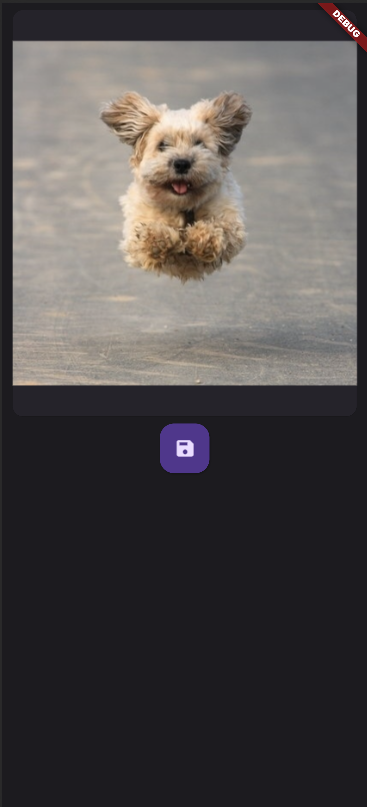
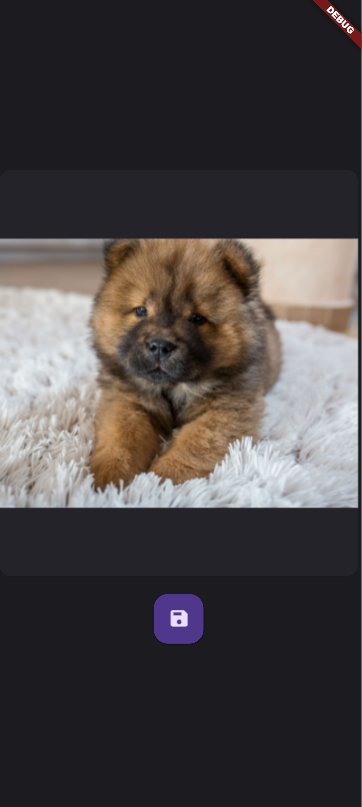
fix: image alignment

diff --git a/lib/homepage.dart b/lib/homepage.dart
@@ -1,15 +1,14 @@
-//homepage.dart
+import 'package:flutter/material.dart';
+import 'package:flutter_bloc/flutter_bloc.dart';
+import 'package:hive/hive.dart';
 import 'package:bloc_asngment/blocs/app_blocs.dart';
 import 'package:bloc_asngment/blocs/app_events.dart';
 import 'package:bloc_asngment/blocs/app_states.dart';
 import 'package:bloc_asngment/model/app_model.dart';
 import 'package:bloc_asngment/repo/repositories.dart';
-import 'package:flutter/material.dart';
-import 'package:flutter_bloc/flutter_bloc.dart';
-import 'package:hive/hive.dart';
 
 class HomePage extends StatelessWidget {
-  const HomePage({super.key});
+  const HomePage({Key? key});
 
   void saveImageToLocalDB(ImageModel image) async {
     await Hive.openBox('images');
@@ -38,34 +37,29 @@ class HomePage extends StatelessWidget {
             }
             if (state is ImageLoadedState) {
               List<ImageModel> imageList = state.image;
-              return ListView.builder(
-                itemCount: imageList.length,
-                itemBuilder: (_, index) {
-                  return Column(
-                    children: [
-                      Padding(
-                        padding: const EdgeInsets.symmetric(
-                            vertical: 4, horizontal: 8),
-                        child: Card(
-                          color: Theme.of(context).primaryColor,
-                          child: Image.network(
-                            height: MediaQuery.of(context).size.height * 0.5,
-                            imageList[index].url.toString(),
-                          ),
-                        ),
+              return Center(
+                child: Column(
+                  mainAxisAlignment: MainAxisAlignment.center,
+                  children: [
+                    Card(
+                      color: Theme.of(context).primaryColor,
+                      child: Image.network(
+                        imageList.first.url.toString(),
+                        height: MediaQuery.of(context).size.height * 0.5,
                       ),
-                      FloatingActionButton(
-                        onPressed: () {
-                          // Save the image to local database using Hive
-                          saveImageToLocalDB(state.image.first);
-                          // Navigate to Screen 2
-                          Navigator.pushNamed(context, '/screen2');
-                        },
-                        child: Icon(Icons.save),
-                      )
-                    ],
-                  );
-                },
+                    ),
+                    SizedBox(height: 16),
+                    FloatingActionButton(
+                      onPressed: () {
+                        // Save the image to the local database using Hive
+                        saveImageToLocalDB(state.image.first);
+                        // Navigate to Screen 2
+                        Navigator.pushNamed(context, '/screen2');
+                      },
+                      child: Icon(Icons.save),
+                    ),
+                  ],
+                ),
               );
             }
             if (state is ImageErrorState) {
